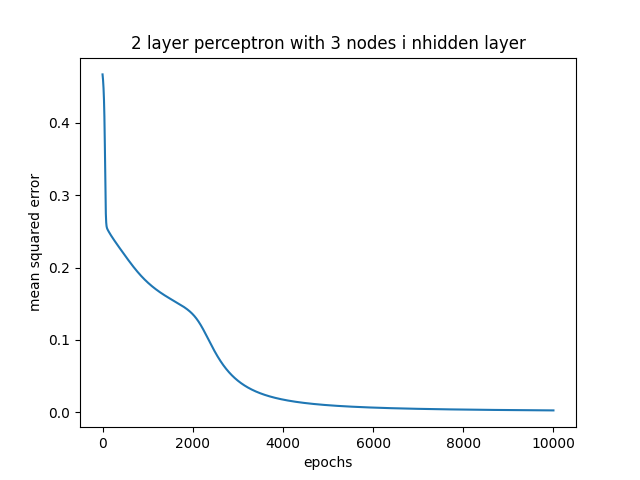
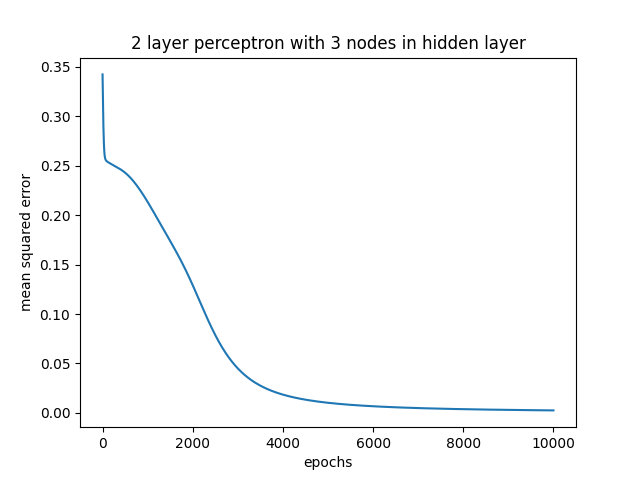
added more comments + refactor

diff --git a/Model.py b/Model.py
@@ -2,6 +2,12 @@ import numpy as np
 
 
 class TwoLayerPerceptron:
+    """ Simple neural network implementing a hidden layer.
+        Methods implemented:
+            - forward pass
+            - gradient descent step
+            - model training
+    """
     def __init__(self, input_size, hidden_size, output_size, activation, error_function):
         self.hidden_weights = np.random.normal(size=(input_size, hidden_size))
         self.hidden_bias = np.random.uniform(size=(1, hidden_size))
@@ -11,6 +17,9 @@ class TwoLayerPerceptron:
 
         self.activation = activation
         self.error_function = error_function
+    
+    def __call__(self, input, return_activations=False):
+        self.forward_pass(input,return_activations)
 
     def forward_pass(self, input, return_activations=False):
         """ The forward pass of the neural network.
@@ -29,7 +38,7 @@ class TwoLayerPerceptron:
         return output_layer_out
 
     def gradient_descent(self, X, y_true, lr):
-        """ Gradient descent step
+        """ Gradient descent step with weight update
         """
         # take each layer output value
         hidden_layer_out, output_layer_out = self.forward_pass(X,return_activations=True)
@@ -49,6 +58,8 @@ class TwoLayerPerceptron:
         return mse_error
 
     def train(self, X, y, lr, epochs):
+        """ Trains the model for a number of epochs
+        """
         loss = []
         for i in range(epochs):
             loss.append(self.gradient_descent(X, y, lr))

diff --git a/XOR_experiment.py b/XOR_experiment.py
@@ -5,7 +5,7 @@ from Activations import *
 from Model import *
 
 # Set seed for reproducibility
-np.random.seed(0)
+#np.random.seed(0)
 # Data
 X = np.array([[0,0],[0,1],[1,0],[1,1]])
 y = np.array([[0],[1],[1],[0]])
@@ -30,7 +30,7 @@ print(f"predictions rounded: {preds_rounded}")
 print(f"expected results: {y.squeeze()}")
 # Plot results and save figure
 plt.plot(loss)
-plt.title(f"2 layer perceptron with {hidden_nodes} nodes i nhidden layer")
+plt.title(f"2 layer perceptron with {hidden_nodes} nodes in hidden layer")
 plt.xlabel("epochs")
 plt.ylabel("mean squared error")
 plt.savefig('loss.png')

diff --git a/error_functions.py b/error_functions.py
@@ -1,4 +1,6 @@
 import numpy as np
 
 def mse(y_true, y_pred,ax=0):
+    """ Mean squared error
+    """
     return ((y_true - y_pred)**2).mean(axis=ax)
